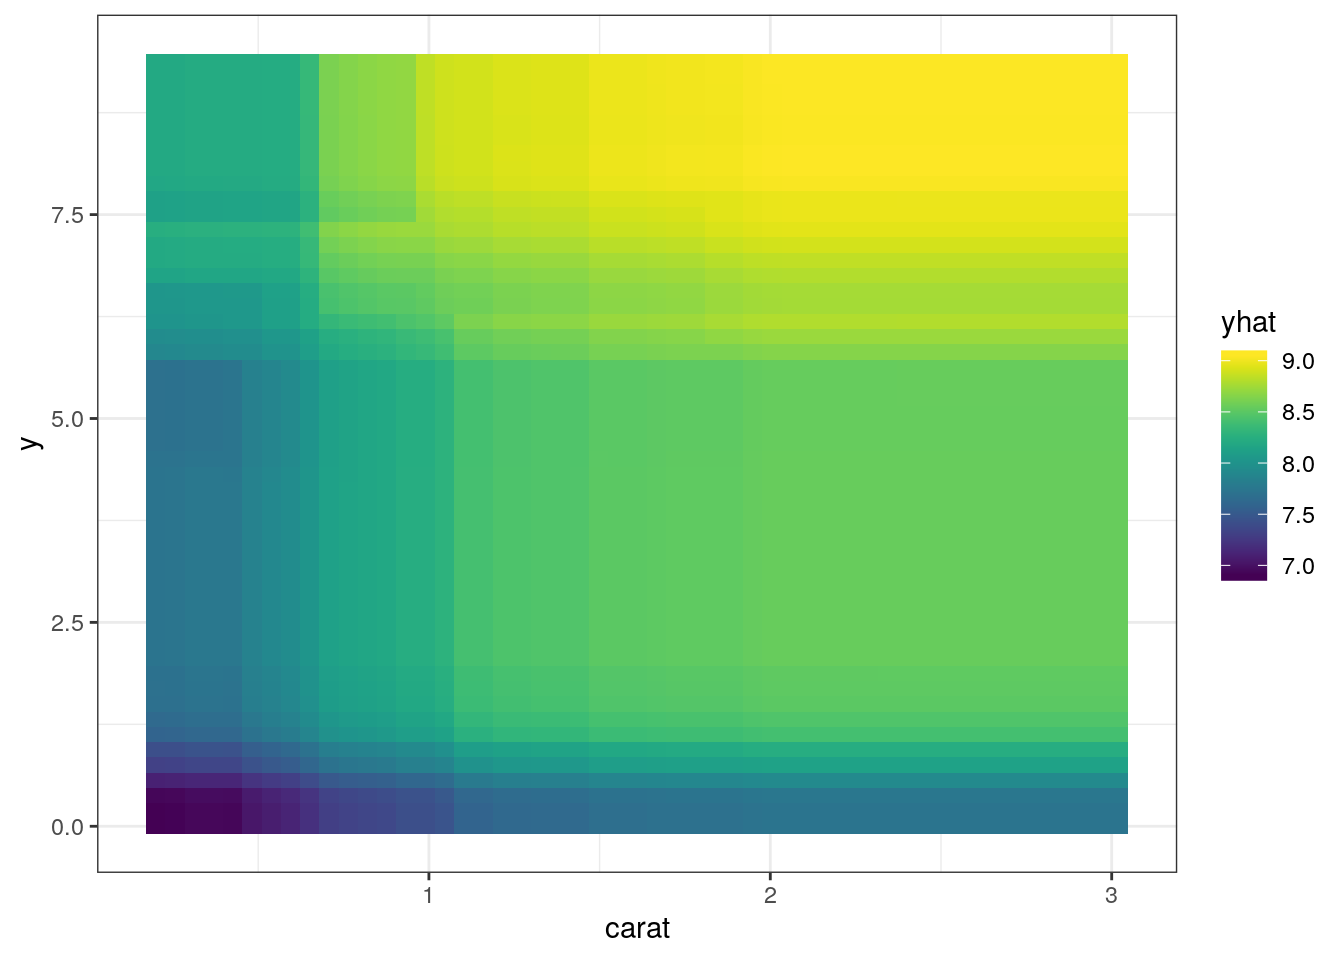
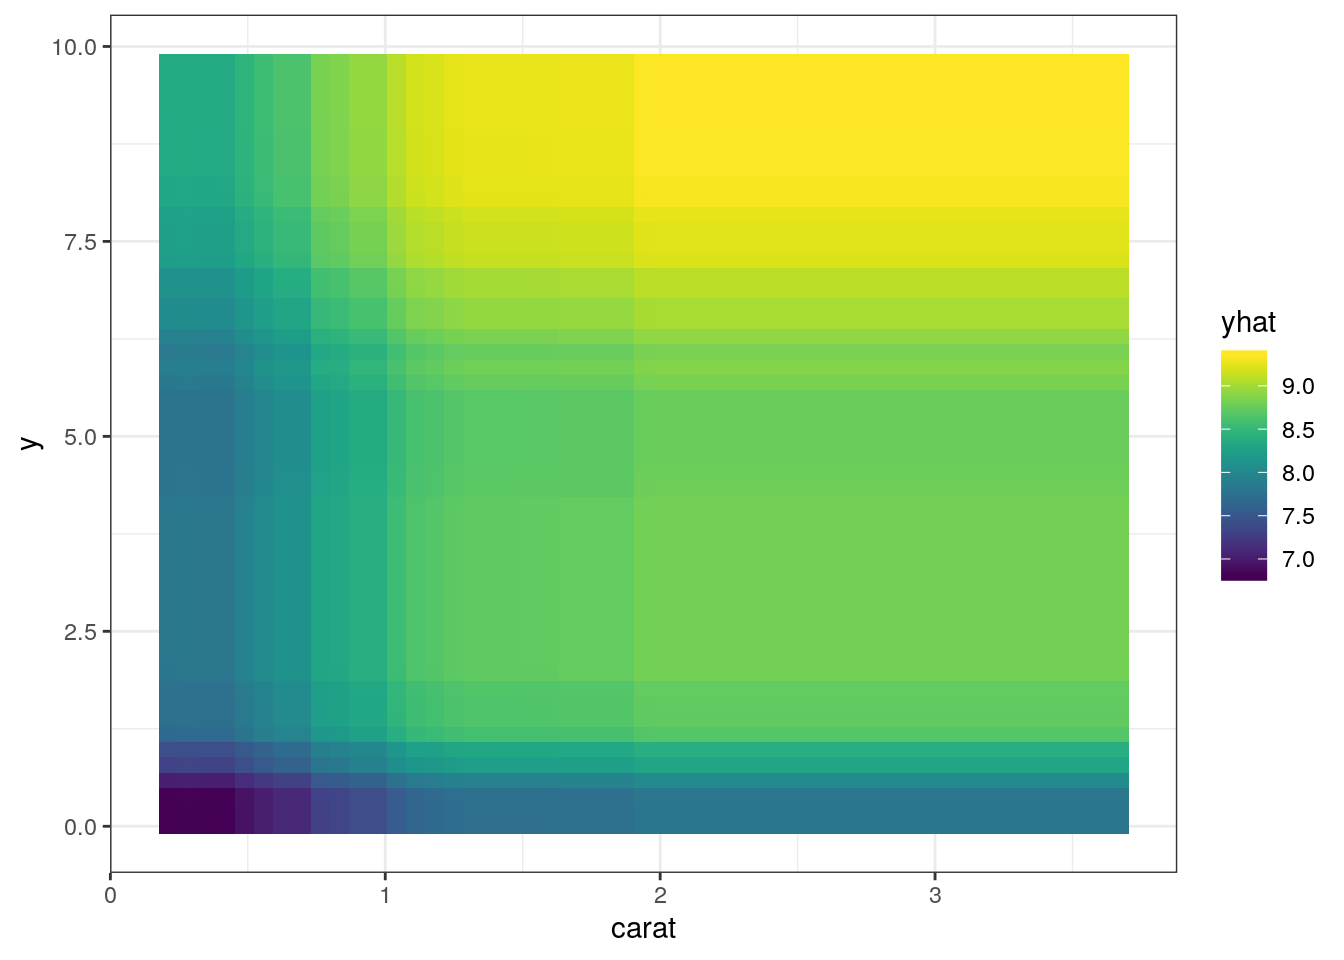
remove leakage and set seed

diff --git a/content/post/2019-10-29-interpret-tidymodels.html b/content/post/2019-10-29-interpret-tidymodels.html
@@ -32,11 +32,12 @@ output:
 <h1>XGBoostによる学習</h1>
 <p><code>ggplot2::diamonds</code>データセットについて、価格を予想するモデルを構築します。</p>
 <pre class="r"><code># 1割をテストデータにする
+set.seed(71)
 i &lt;- rsample::initial_split(ggplot2::diamonds, p = .9)
 
 # 前処理方法を定義
 rec &lt;- training(i) %&gt;%
-  recipes::recipe() %&gt;%
+  recipes::recipe(price ~ .) %&gt;%
   recipes::step_ordinalscore(recipes::all_nominal()) %&gt;%
   recipes::step_log(price)
 
@@ -47,6 +48,7 @@ tr &lt;- juice(prep)
 te &lt;- bake(prep, testing(i))
 
 # 学習
+set.seed(71)
 fit_xgb &lt;- boost_tree(&quot;regression&quot;) %&gt;%
   set_engine(&quot;xgboost&quot;) %&gt;%
   fit(price ~ ., data = tr)</code></pre>
@@ -59,29 +61,33 @@ fit_xgb &lt;- boost_tree(&quot;regression&quot;) %&gt;%
 <p>学習結果を元に、変数重要度 (variable importance; VI) を計算してみましょう。これには<code>xgboost::xgb.importance</code>関数を用います。
 <code>xgboost::xgb.importance</code>関数は<code>xgb.Booster</code>クラスオブジェクトを受けとるように設計されているので、<code>fit_xgb</code>そのものではなく、<code>fit_xgb$fit</code>を食わせてやりましょう。</p>
 <p>すると、幅 (y) と、次いでカラット (carat) が価格に大きく影響することが分かります。</p>
-<pre class="r"><code>vip &lt;- fit_xgb$fit %&gt;%
+<pre class="r"><code>vi &lt;- fit_xgb$fit %&gt;%
   xgboost::xgb.importance(model = .) %&gt;%
   print
-#&gt;    Feature         Gain       Cover  Frequency
-#&gt; 1:       y 5.375962e-01 0.142391083 0.10899183
-#&gt; 2:   carat 3.732561e-01 0.190490249 0.11307902
-#&gt; 3:       x 3.296528e-02 0.111180338 0.08446866
-#&gt; 4:       z 2.525774e-02 0.064071017 0.04495913
-#&gt; 5: clarity 2.097092e-02 0.218256035 0.28201635
-#&gt; 6:   color 8.399916e-03 0.178143758 0.21389646
-#&gt; 7:     cut 1.105225e-03 0.050557495 0.05040872
-#&gt; 8:   depth 3.854991e-04 0.039586716 0.07084469
-#&gt; 9:   table 6.306348e-05 0.005323307 0.03133515
-xgboost::xgb.ggplot.importance(vip)</code></pre>
+#&gt;    Feature         Gain      Cover  Frequency
+#&gt; 1:       y 5.411260e-01 0.13881580 0.11320755
+#&gt; 2:   carat 3.959879e-01 0.23607853 0.11725067
+#&gt; 3: clarity 2.185543e-02 0.20602836 0.27088949
+#&gt; 4:       x 1.798093e-02 0.10747288 0.09029650
+#&gt; 5:       z 1.301997e-02 0.04969059 0.04986523
+#&gt; 6:   color 8.731771e-03 0.16406459 0.21698113
+#&gt; 7:     cut 9.375364e-04 0.05300730 0.04312668
+#&gt; 8:   depth 3.103671e-04 0.03613783 0.07412399
+#&gt; 9:   table 5.006207e-05 0.00870413 0.02425876
+xgboost::xgb.ggplot.importance(vi)</code></pre>
 <p><img src="/post/2019-10-29-interpret-tidymodels_files/figure-html/vip-1.png" width="672" /></p>
 </div>
 <div id="partial-dependence-plot-pdp" class="section level1">
 <h1>Partial Dependence Plot (PDP)</h1>
 <p>変数重要度が最も高いのは幅 (y) ですが、なんとなくカラット (carat) の方がイメージしやすいので、カラット (carat) についてPDPを可視化してみます。</p>
-<p><code>pdp::partial</code>関数も<code>parsnip::fit</code>関数の結果を受け取れないので、<code>fit_xgb$fit</code>を食わせます。
-<code>train</code>引数には訓練データを与えても良いのですが、データのサイズに応じて時間がかかるので、ここではテストデータを与えます。
+<p><code>pdp::partial</code>関数も<code>parsnip::fit</code>関数の結果を受け取れないので、<code>fit_xgb$fit</code>を食わせます。計算時間を節約するため、<code>train</code>引数には訓練データの2割を与えることにしました。
 <code>pred.var</code>には注目したい変数である<code>carat</code>を指定します。</p>
-<pre class="r"><code>pdp::partial(
+<pre class="r"><code>set.seed(71)
+tr_mini &lt;- tr %&gt;%
+  select(-price) %&gt;%
+  initial_split(.2) %&gt;%
+  training()
+pdp::partial(
   fit_xgb$fit, train = te %&gt;% select(-price),
   pred.var = &quot;carat&quot;,
   ice = TRUE, # 下図黒線としてIndividual Conditional Expectationを表示するか。
@@ -92,7 +98,7 @@ xgboost::xgb.ggplot.importance(vip)</code></pre>
 <p>どうやら、2カラット以上では、大きさだけで価格が決まらなくなるようです。</p>
 <p>yにも注目して2変量を用いたPDPを作成してみましょう。すると、同じ大きさでも幅広なダイヤモンドの方が高値になる傾向が伺えます。大きなダイヤモンドは指輪にする時に、楕円状のテーブルを持っていた方が良いのかも知れません。</p>
 <pre class="r"><code>pdp::partial(
-  fit_xgb$fit, train = te %&gt;% select(-price),
+  fit_xgb$fit, train = tr_mini,
   pred.var = c(&quot;carat&quot;, &quot;y&quot;),
   ice = FALSE,
   plot = TRUE,
